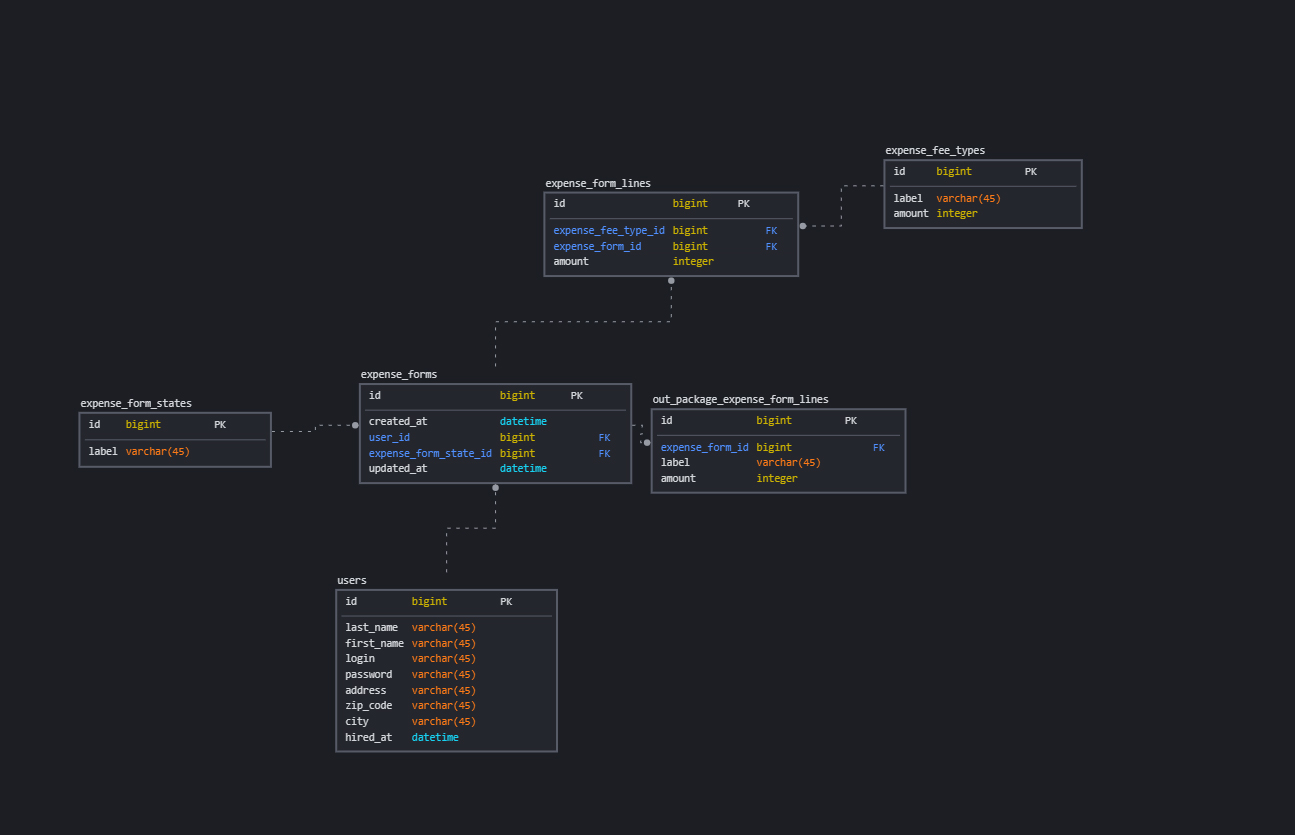
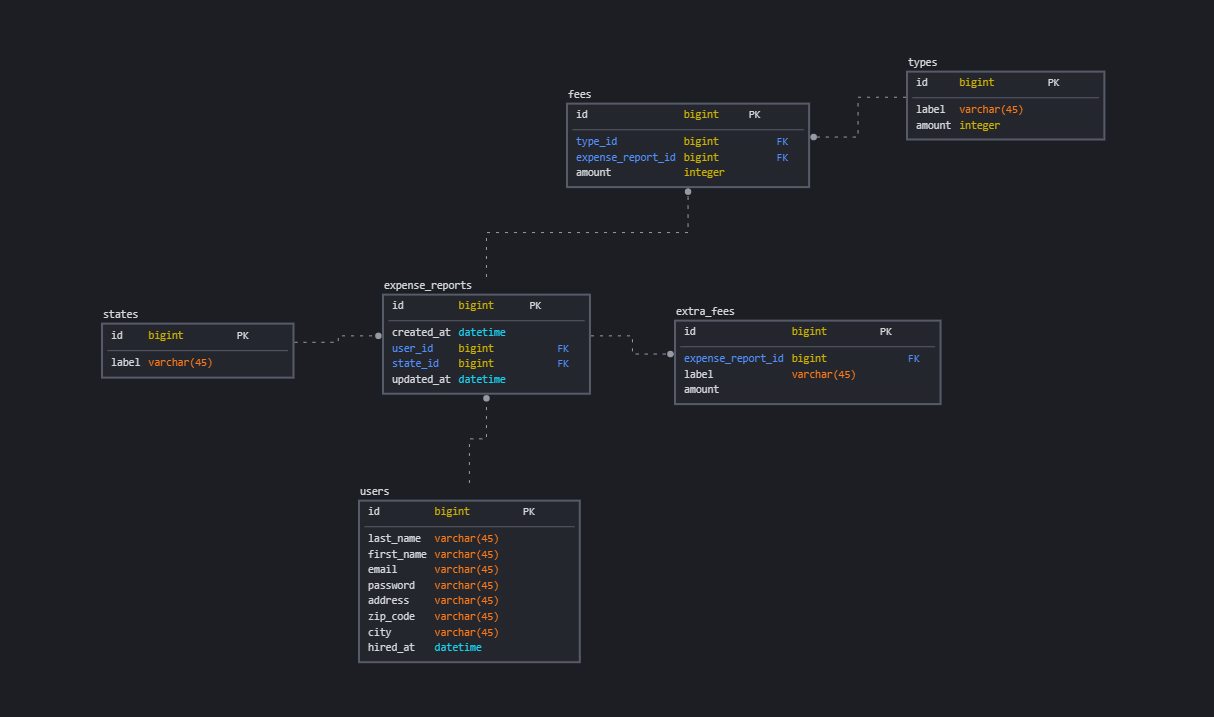
renaming migrations, controllers. Adding nesting controllers routes.

diff --git a/database/migrations/2022_03_06_191915_create_fees_table.php b/database/migrations/2022_03_06_191915_create_fees_table.php
@@ -13,20 +13,20 @@ return new class extends Migration
      */
     public function up()
     {
-        Schema::create('expense_form_lines', function (Blueprint $table) {
+        Schema::create('fees', function (Blueprint $table) {
             $table->id();
             $table->integer('amount');
 
-            // Foreign Expense Form Key
-            $table->unsignedBigInteger('expense_form_id');
-            $table->foreign('expense_form_id')->references('id')
-                ->on('expense_forms')
+            // Foreign Expense Report Key
+            $table->unsignedBigInteger('expense_report_id');
+            $table->foreign('expense_report_id')->references('id')
+                ->on('expense_reports')
                 ->onDelete('cascade');
 
-            // Foreign Expense Fee Type Key
-            $table->unsignedBigInteger('expense_fee_type_id');
-            $table->foreign('expense_fee_type_id')->references('id')
-                ->on('expense_fee_types')
+            // Foreign Type Key
+            $table->unsignedBigInteger('type_id');
+            $table->foreign('type_id')->references('id')
+                ->on('types')
                 ->onDelete('cascade');
         });
     }
@@ -38,6 +38,6 @@ return new class extends Migration
      */
     public function down()
     {
-        Schema::dropIfExists('expense_form_lines');
+        Schema::dropIfExists('fees');
     }
 };

diff --git a/app/Http/Controllers/ExpenseReportController.php b/app/Http/Controllers/ExpenseReportController.php
@@ -1,12 +1,15 @@
 <?php
 
-namespace App\Http\Controllers\OutPackageExpenseFormLine;
+namespace App\Http\Controllers;
 
+use Carbon\Carbon;
+use App\Models\ExpenseForm;
 use Illuminate\Http\Request;
-use App\Models\ExpenseFormLine;
 use App\Http\Controllers\Controller;
+use App\Models\ExpenseReport;
+use Illuminate\Database\Eloquent\Builder;
 
-class OutPackageExpenseFormLineController extends Controller
+class ExpenseReportController extends Controller
 {
     /**
      * Display a listing of the resource.
@@ -25,7 +28,14 @@ class OutPackageExpenseFormLineController extends Controller
      */
     public function create()
     {
-        //
+        $expenseForm = ExpenseReport::whereBelongsTo(auth()->user())
+            ->whereMonth('created_at', Carbon::now()->month)
+            ->whereYear('created_at', Carbon::now()->year)
+            ->get();
+        
+        dd($expenseForm);
+
+        return view('expense_reports.create');
     }
 
     /**
@@ -34,9 +44,9 @@ class OutPackageExpenseFormLineController extends Controller
      * @param  \Illuminate\Http\Request  $request
      * @return \Illuminate\Http\Response
      */
-    public function store(Request $request, ExpenseFormLine $expenseFormLine)
+    public function store(Request $request)
     {
-        dd($request->all());
+        //
     }
 
     /**

diff --git a/database/migrations/2022_03_06_191903_create_expense_reports_table.php b/database/migrations/2022_03_06_191903_create_expense_reports_table.php
@@ -13,7 +13,7 @@ return new class extends Migration
      */
     public function up()
     {
-        Schema::create('expense_forms', function (Blueprint $table) {
+        Schema::create('expense_reports', function (Blueprint $table) {
             $table->id();
 
             // Foreign User Key
@@ -22,10 +22,10 @@ return new class extends Migration
                 ->on('users')
                 ->onDelete('cascade');
 
-            // Foreign Expense Form State Key
-            $table->unsignedBigInteger('expense_form_state_id');
-            $table->foreign('expense_form_state_id')->references('id')
-                ->on('expense_form_states')
+            // Foreign State Key
+            $table->unsignedBigInteger('state_id');
+            $table->foreign('state_id')->references('id')
+                ->on('states')
                 ->onDelete('cascade');
 
             $table->timestamps();
@@ -39,6 +39,6 @@ return new class extends Migration
      */
     public function down()
     {
-        Schema::dropIfExists('expense_forms');
+        Schema::dropIfExists('expense_reports');
     }
 };

diff --git a/database/migrations/2022_03_06_191934_create_extra_fees_table.php b/database/migrations/2022_03_06_191934_create_extra_fees_table.php
@@ -13,15 +13,15 @@ return new class extends Migration
      */
     public function up()
     {
-        Schema::create('out_package_expense_form_lines', function (Blueprint $table) {
+        Schema::create('extra_fees', function (Blueprint $table) {
             $table->id();
             $table->string('label');
             $table->integer('amount');
 
-            // Foreign Expense Form Key
-            $table->unsignedBigInteger('expense_form_id');
-            $table->foreign('expense_form_id')->references('id')
-                ->on('expense_forms')
+            // Foreign Expense Report Key
+            $table->unsignedBigInteger('expense_report_id');
+            $table->foreign('expense_report_id')->references('id')
+                ->on('expense_reports')
                 ->onDelete('cascade');
         });
     }
@@ -33,6 +33,6 @@ return new class extends Migration
      */
     public function down()
     {
-        Schema::dropIfExists('out_package_expense_form_lines');
+        Schema::dropIfExists('extra_fees');
     }
 };

diff --git a/routes/web.php b/routes/web.php
@@ -1,8 +1,8 @@
 <?php
 
 use Illuminate\Support\Facades\Route;
-use App\Http\Controllers\ExpenseForm\ExpenseFormController;
-use App\Http\Controllers\OutPackageExpenseFormLine\OutPackageExpenseFormLineController;
+use App\Http\Controllers\ExpenseReportController;
+use App\Http\Controllers\ExpenseReportExtraFeeController;
 
 /*
 |--------------------------------------------------------------------------
@@ -19,11 +19,10 @@ Route::get('/', function () {
     return view('welcome');
 });
 
-Route::resource('expenseForm', ExpenseFormController::class);
+Route::resource('report', ExpenseReportController::class);
 
-// Ligne de frais
-Route::post('outpackage', [OutPackageExpenseFormLineController::class, 'store'])
-    ->name('outpackage.store');
+// Nested Controllers
+Route::resource('expenseReports.extraFees', ExpenseReportExtraFeeController::class);
 
 Route::get('/dashboard', function () {
     return view('dashboard');

diff --git a/app/Http/Controllers/ExpenseReportExtraFeeController.php b/app/Http/Controllers/ExpenseReportExtraFeeController.php
@@ -1,14 +1,10 @@
 <?php
 
-namespace App\Http\Controllers\ExpenseForm;
+namespace App\Http\Controllers;
 
-use Carbon\Carbon;
-use App\Models\ExpenseForm;
 use Illuminate\Http\Request;
-use App\Http\Controllers\Controller;
-use Illuminate\Database\Eloquent\Builder;
 
-class ExpenseFormController extends Controller
+class ExpenseReportExtraFeeController extends Controller
 {
     /**
      * Display a listing of the resource.
@@ -27,14 +23,7 @@ class ExpenseFormController extends Controller
      */
     public function create()
     {
-        $expenseForm = ExpenseForm::whereBelongsTo(auth()->user())
-            ->whereMonth('created_at', Carbon::now()->month)
-            ->whereYear('created_at', Carbon::now()->year)
-            ->get();
-        
-        dd($expenseForm);
-
-        return view('expense_forms.create');
+        //
     }
 
     /**

diff --git a/app/Models/ExpenseReport.php b/app/Models/ExpenseReport.php
@@ -1,0 +1,36 @@
+<?php
+
+namespace App\Models;
+
+use App\Models\User;
+use App\Models\State;
+use App\Models\ExtraFee;
+use Illuminate\Database\Eloquent\Model;
+use Illuminate\Database\Eloquent\Relations\HasMany;
+use Illuminate\Database\Eloquent\Relations\BelongsTo;
+use Illuminate\Database\Eloquent\Factories\HasFactory;
+
+class ExpenseReport extends Model
+{
+    use HasFactory;
+
+    public function fees(): HasMany
+    {
+        return $this->hasMany(Fee::class);
+    }
+
+    public function extraFees(): HasMany
+    {
+        return $this->hasMany(ExtraFee::class);
+    }
+
+    public function user(): BelongsTo
+    {
+        return $this->belongsTo(User::class);
+    }
+
+    public function state(): BelongsTo
+    {
+        return $this->belongsTo(State::class);
+    }
+}

diff --git a/app/Models/User.php b/app/Models/User.php
@@ -2,7 +2,7 @@
 
 namespace App\Models;
 
-use App\Models\ExpenseForm;
+use App\Models\ExpenseReport;
 use Laravel\Sanctum\HasApiTokens;
 use Illuminate\Notifications\Notifiable;
 use Illuminate\Contracts\Auth\MustVerifyEmail;
@@ -17,8 +17,8 @@ class User extends Authenticatable
     public $timestamps = false;
     protected $guarded = [];
 
-    public function expenseForms(): HasMany
+    public function expenseReports(): HasMany
     {
-        return $this->hasMany(ExpenseForm::class);
+        return $this->hasMany(ExpenseReport::class);
     }
 }

diff --git a/resources/views/layouts/navigation.blade.php b/resources/views/layouts/navigation.blade.php
@@ -15,7 +15,7 @@
                     <x-nav-link :href="route('dashboard')" :active="request()->routeIs('dashboard')">
                         {{ __('Dashboard') }}
                     </x-nav-link>
-                    <x-nav-link :href="route('expenseForm.create')" :active="request()->routeIs('expenseForm.create')">
+                    <x-nav-link :href="route('report.create')" :active="request()->routeIs('report.create')">
                         {{ __('Ajouter une fiche de frais') }}
                     </x-nav-link>
                 </div>

diff --git a/database/migrations/2022_03_06_191914_create_types_table.php b/database/migrations/2022_03_06_191914_create_types_table.php
@@ -13,7 +13,7 @@ return new class extends Migration
      */
     public function up()
     {
-        Schema::create('expense_fee_types', function (Blueprint $table) {
+        Schema::create('types', function (Blueprint $table) {
             $table->id();
             $table->string('label');
             $table->integer('amount');
@@ -27,6 +27,6 @@ return new class extends Migration
      */
     public function down()
     {
-        Schema::dropIfExists('expense_fee_types');
+        Schema::dropIfExists('types');
     }
 };

diff --git a/database/migrations/2022_03_06_191851_create_states_table.php b/database/migrations/2022_03_06_191851_create_states_table.php
@@ -13,7 +13,7 @@ return new class extends Migration
      */
     public function up()
     {
-        Schema::create('expense_form_states', function (Blueprint $table) {
+        Schema::create('states', function (Blueprint $table) {
             $table->id();
             $table->string('label');
         });
@@ -26,6 +26,6 @@ return new class extends Migration
      */
     public function down()
     {
-        Schema::dropIfExists('expense_form_states');
+        Schema::dropIfExists('states');
     }
 };

diff --git a/app/Models/Fee.php b/app/Models/Fee.php
@@ -1,0 +1,23 @@
+<?php
+
+namespace App\Models;
+
+use App\Models\Type;
+use Illuminate\Database\Eloquent\Model;
+use Illuminate\Database\Eloquent\Relations\BelongsTo;
+use Illuminate\Database\Eloquent\Factories\HasFactory;
+
+class Fee extends Model
+{
+    use HasFactory;
+
+    public function expenseReport(): BelongsTo
+    {
+        return $this->belongsTo(ExpenseReport::class);
+    }
+
+    public function type(): BelongsTo
+    {
+        return $this->belongsTo(Type::class);
+    }
+}
